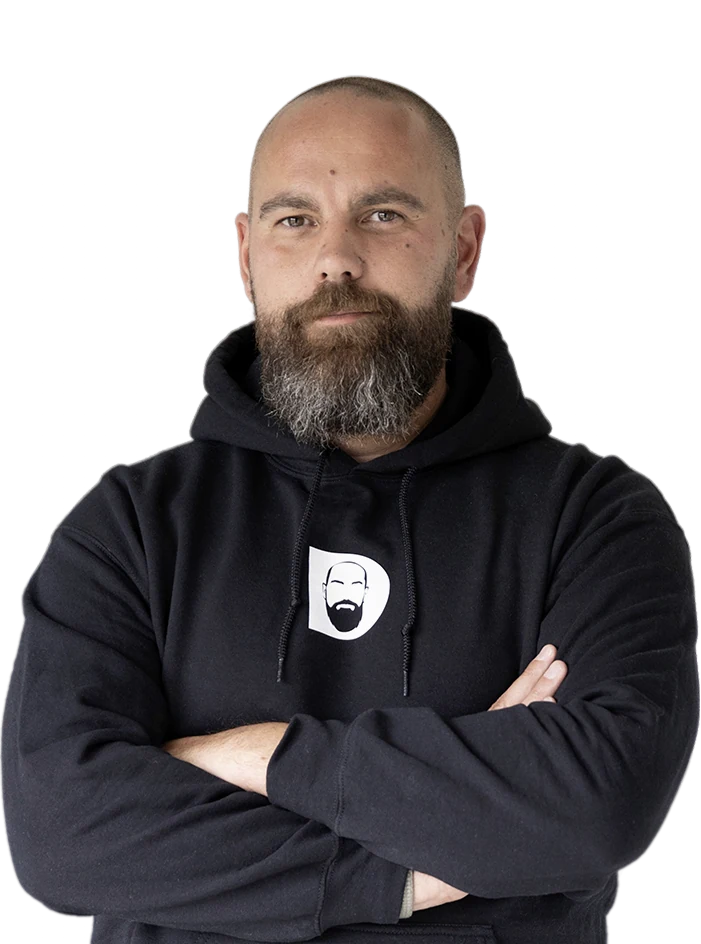
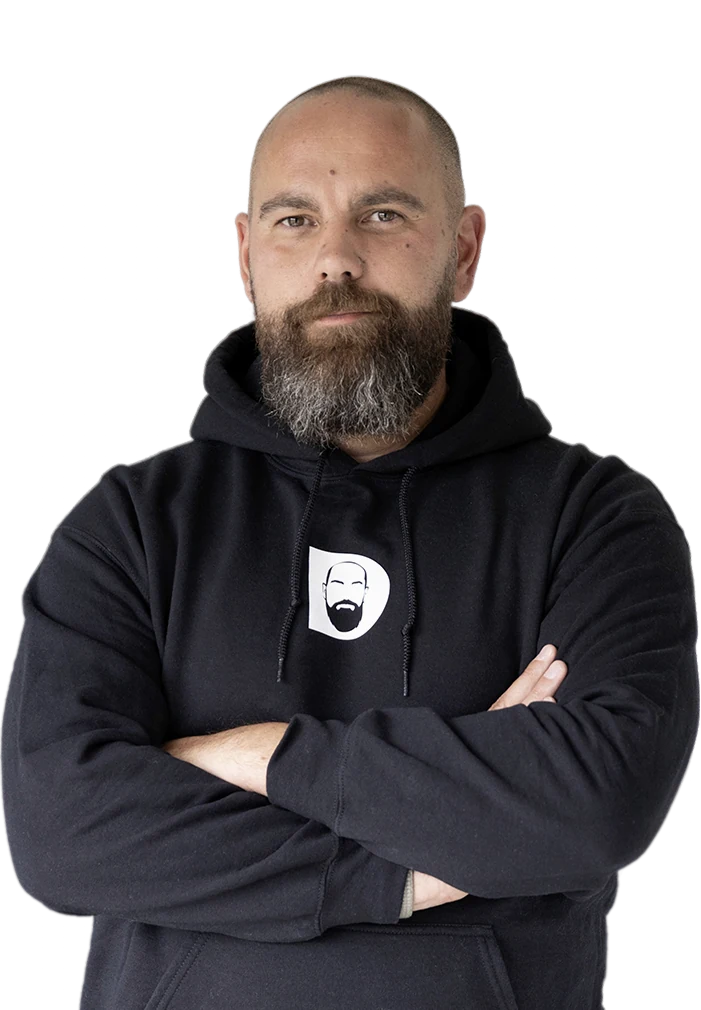
Hero-Feinschliff: Top-Abstand wie Leistungen + ausgewogene Kasten-Abstände
- Top-Abstand Nav->Eyebrow auf Leistungen-Niveau (content padding-top 6rem->0)
  -> konsistent auf allen Hero-Seiten
- Bilder etwas höher (mehr Hoodie unter Armen/Händen) -> Kasten schneidet
  Arme/Hände nicht mehr an
- Tieferer Tuck (desktop): mein-weg -120px, stats -68px
  -> para/CTA->Kasten == Kasten->Überschrift (ausgewogen)
- Mobile unverändert (desktop-scoped)

diff --git a/css/style.css b/css/style.css
@@ -226,7 +226,7 @@ body.nav-locked { overflow: hidden; }
   align-items: start;
 }
 .hero__content { max-width: 640px; }
-.hero__grid .hero__content { padding-top: 6rem; }
+.hero__grid .hero__content { padding-top: 0; }
 .hero h1 { margin-bottom: 1.4rem; }
 .hero .lead { margin-bottom: 2.2rem; max-width: 30ch; }
 .hero__cta { display: flex; flex-wrap: wrap; gap: .9rem; }
@@ -260,6 +260,11 @@ body.nav-locked { overflow: hidden; }
 .hero--tuck .portrait-cut { -webkit-mask-image: none; mask-image: none; }
 .hero--tuck { padding-bottom: 0; }
 .stats-tuck, .mein-weg-tuck { position: relative; z-index: 3; margin-top: -1.5rem; }
+/* Desktop: tieferer Tuck fuer ausgewogene Abstaende um den Kasten */
+@media (min-width: 881px) {
+  .mein-weg-tuck { margin-top: -120px; }
+  .stats-tuck { margin-top: -68px; }
+}
 
 /* ============================================================
    VERTRAUENSLEISTE / STATS

diff --git a/index.html b/index.html
@@ -136,7 +136,7 @@
     </div>
     <div class="hero__media reveal" data-delay="1">
       <!-- BILD: Dennis Porträt hero_dennis_portrait.webp – freigestellt, transparenter Hintergrund. Aktuell: designj_dennis_jaehring_uebermich.webp -->
-      <img class="portrait-cut" src="images/dennis_hero_start_v2.webp" alt="Dennis Jähring – Inhaber der Werbeagentur DESIGNJ aus Weiden" width="903" height="1246" fetchpriority="high">
+      <img class="portrait-cut" src="images/dennis_hero_start_v2.webp" alt="Dennis Jähring – Inhaber der Werbeagentur DESIGNJ aus Weiden" width="903" height="1320" fetchpriority="high">
     </div>
   </div>
 </section>

diff --git a/ueber-mich.html b/ueber-mich.html
@@ -110,7 +110,7 @@
     </div>
     <div class="hero__media reveal" data-delay="1">
       <!-- BILD: dennis_portrait_main.webp – Hauptporträt Dennis im Container-Büro. Aktuell: freigestelltes Portrait. -->
-      <img class="portrait-cut" src="images/dennis_hero_ueber_v2.webp" alt="Dennis Jähring – Inhaber DESIGNJ, Werbeagentur Weiden" width="701" height="944">
+      <img class="portrait-cut" src="images/dennis_hero_ueber_v2.webp" alt="Dennis Jähring – Inhaber DESIGNJ, Werbeagentur Weiden" width="701" height="1010">
     </div>
   </div>
 </section>